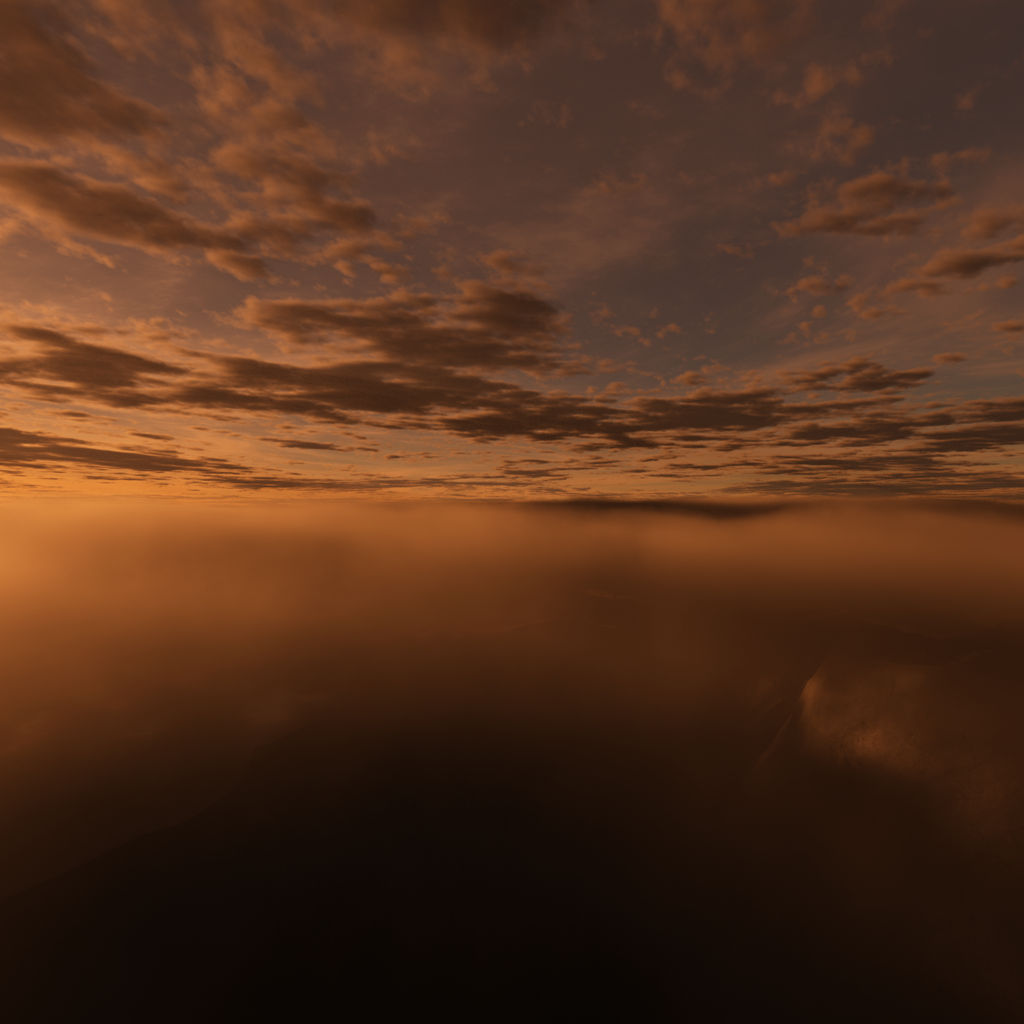
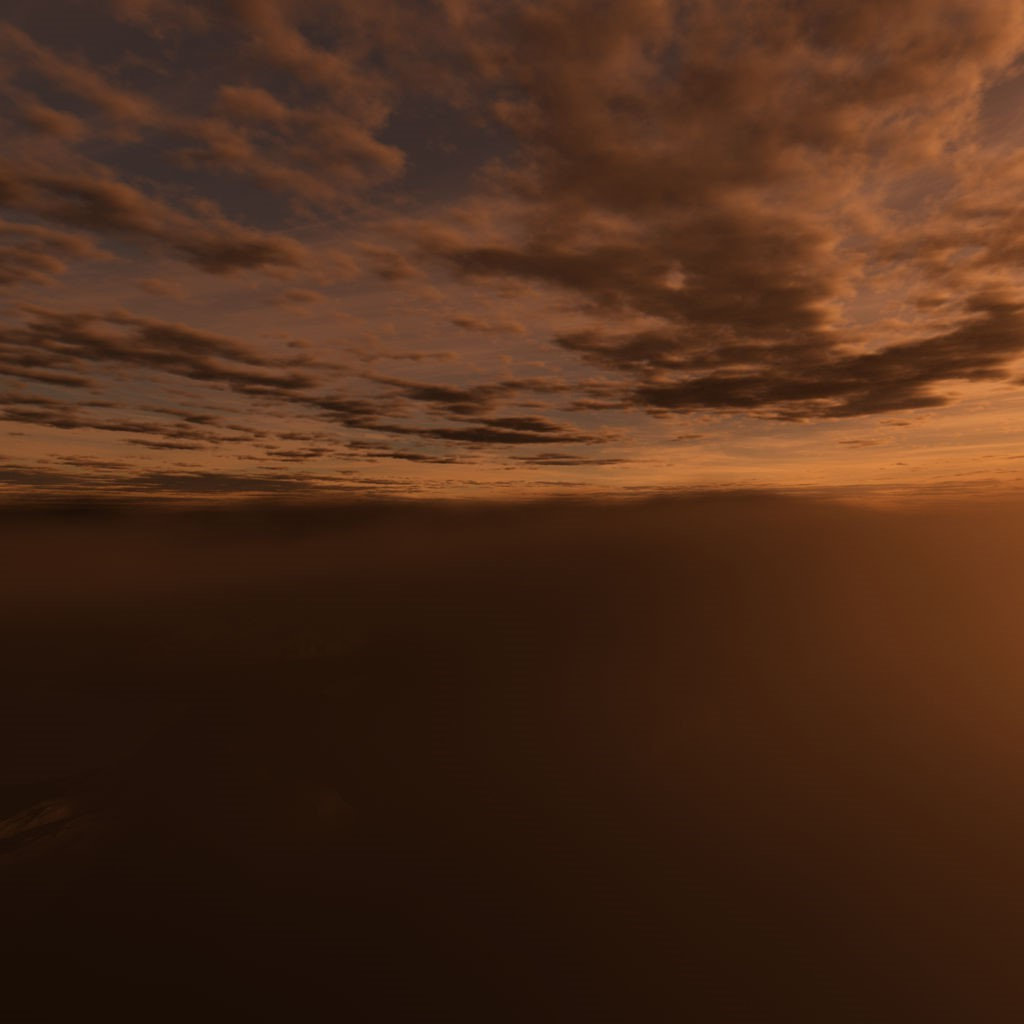
3d done

diff --git a/public/client.js b/public/client.js
@@ -16,7 +16,7 @@ const scene = new THREE.Scene();
 console.log(scene);
 
 // Camera Setup
-const fov = 45;
+const fov = 35;
 const aspect = window.innerWidth / window.innerHeight;
 const near = 0.1;
 const far = 1000;
@@ -39,51 +39,48 @@ renderer.setClearColor = (0x000000, 0.0);
 console.log(renderer);
 
 // Adding orbit controls
-const controls = new OrbitControls(camera, renderer.domElement);
+let controls = new OrbitControls(camera, renderer.domElement);
 
-// // making sphere
-// const geometry = new THREE.SphereGeometry(5, 10, 10);
-// const material = new THREE.MeshBasicMaterial({
-//     color: 0xE6345E,
-//     wireframe: true
-// });
-// const sphere = new THREE.Mesh(geometry, material);
-// scene.add(sphere);
+controls.minDistance = 10;
+controls.maxDistance = 40;
 
-// // making inner sphere
-// const innerGeometry = new THREE.SphereGeometry(3, 20, 20);
-// const innerMaterial = new THREE.MeshBasicMaterial({
-//     color: 0xE6DD67,
-//     wireframe: true
-// });
-// const innerSphere = new THREE.Mesh(innerGeometry, innerMaterial);
-// scene.add(innerSphere);
+// loader for loading texture
+let loader = new THREE.TextureLoader();
 
-// render function to render the scene
+// array for holding all texutre
+let textureArray = [];
 
-let loader              =       new THREE.TextureLoader();
+// all texture
+// let frontTexture = loader.load('./model/heaven/front.jpg');
+// let backTexture = loader.load('./model/MariottMadisonWest/back.jpg');
+// let topTexture = loader.load('./model/polluted_earth/top.jpg');
+// let bottomTexture = loader.load('./model/polluted_earth/bottom.jpg');
+// let rightTexture = loader.load('./model/polluted_earth/left.jpg');
+// let leftTexture = loader.load('./model/polluted_earth/right.jpg');
+let frontTexture        =       loader.load('./model/heaven/front.jpg');
+let backTexture         =       loader.load('./model/heaven/back.jpg');
+let bottomTexture       =       loader.load('./model/heaven/bottom.jpg');
+let leftTexture         =       loader.load('./model/heaven/left.jpg');
+let rightTexture        =       loader.load('./model/heaven/right.jpg');
+let topTexture          =       loader.load('./model/heaven/top.jpg');
 
-let textureArray        =       [];
+textureArray.push(new THREE.MeshBasicMaterial({map: frontTexture}));
+textureArray.push(new THREE.MeshBasicMaterial({map: backTexture}));
+textureArray.push(new THREE.MeshBasicMaterial({map: topTexture}));
+textureArray.push(new THREE.MeshBasicMaterial({map: bottomTexture}));
+textureArray.push(new THREE.MeshBasicMaterial({map: rightTexture}));
+textureArray.push(new THREE.MeshBasicMaterial({map: leftTexture}));
 
-let frontTexture        =       loader.load('./model/MariottMadisonWest/front.jpg');
-let backTexture         =       loader.load('./model/MariottMadisonWest/back.jpg');
-let bottomTexture       =       loader.load('./model/MariottMadisonWest/bottom.jpg');
-let leftTexture         =       loader.load('./model/MariottMadisonWest/left.jpg');
-let rightTexture        =       loader.load('./model/MariottMadisonWest/right.jpg');
-let topTexture          =       loader.load('./model/MariottMadisonWest/top.jpg');
+for(let i=0; i<textureArray.length; i++){
+    textureArray[i].side = THREE.BackSide;
+}
 
-textureArray.push(new THREE.MeshBasicMaterial({ map : frontTexture }));
-textureArray.push(new THREE.MeshBasicMaterial({ map : backTexture }));
-textureArray.push(new THREE.MeshBasicMaterial({ map : bottomTexture }));
-textureArray.push(new THREE.MeshBasicMaterial({ map : leftTexture }));
-textureArray.push(new THREE.MeshBasicMaterial({ map : rightTexture }));
-textureArray.push(new THREE.MeshBasicMaterial({ map : topTexture }));
-
-const cubeGeometry  =       new THREE.BoxGeometry(100 , 100 , 100);
-const skyBox        =       new THREE.Mesh(cubeGeometry , textureArray , )
+// making cube
+const cubeGeometry = new THREE.BoxGeometry(100, 100, 100);
+const skyBox = new THREE.Mesh(cubeGeometry, textureArray);
 scene.add(skyBox);
 
-
+// render function to render the scene
 const render = ()=>{
     renderer.render(scene, camera);
 }
@@ -91,8 +88,6 @@ const render = ()=>{
 // Recursion function for animation
 const animate = ()=>{
     requestAnimationFrame(animate);
-    // sphere.rotation.y += 0.005;
-    // innerSphere.rotation.y -= 0.01
     render();
     stats.update();
 }
